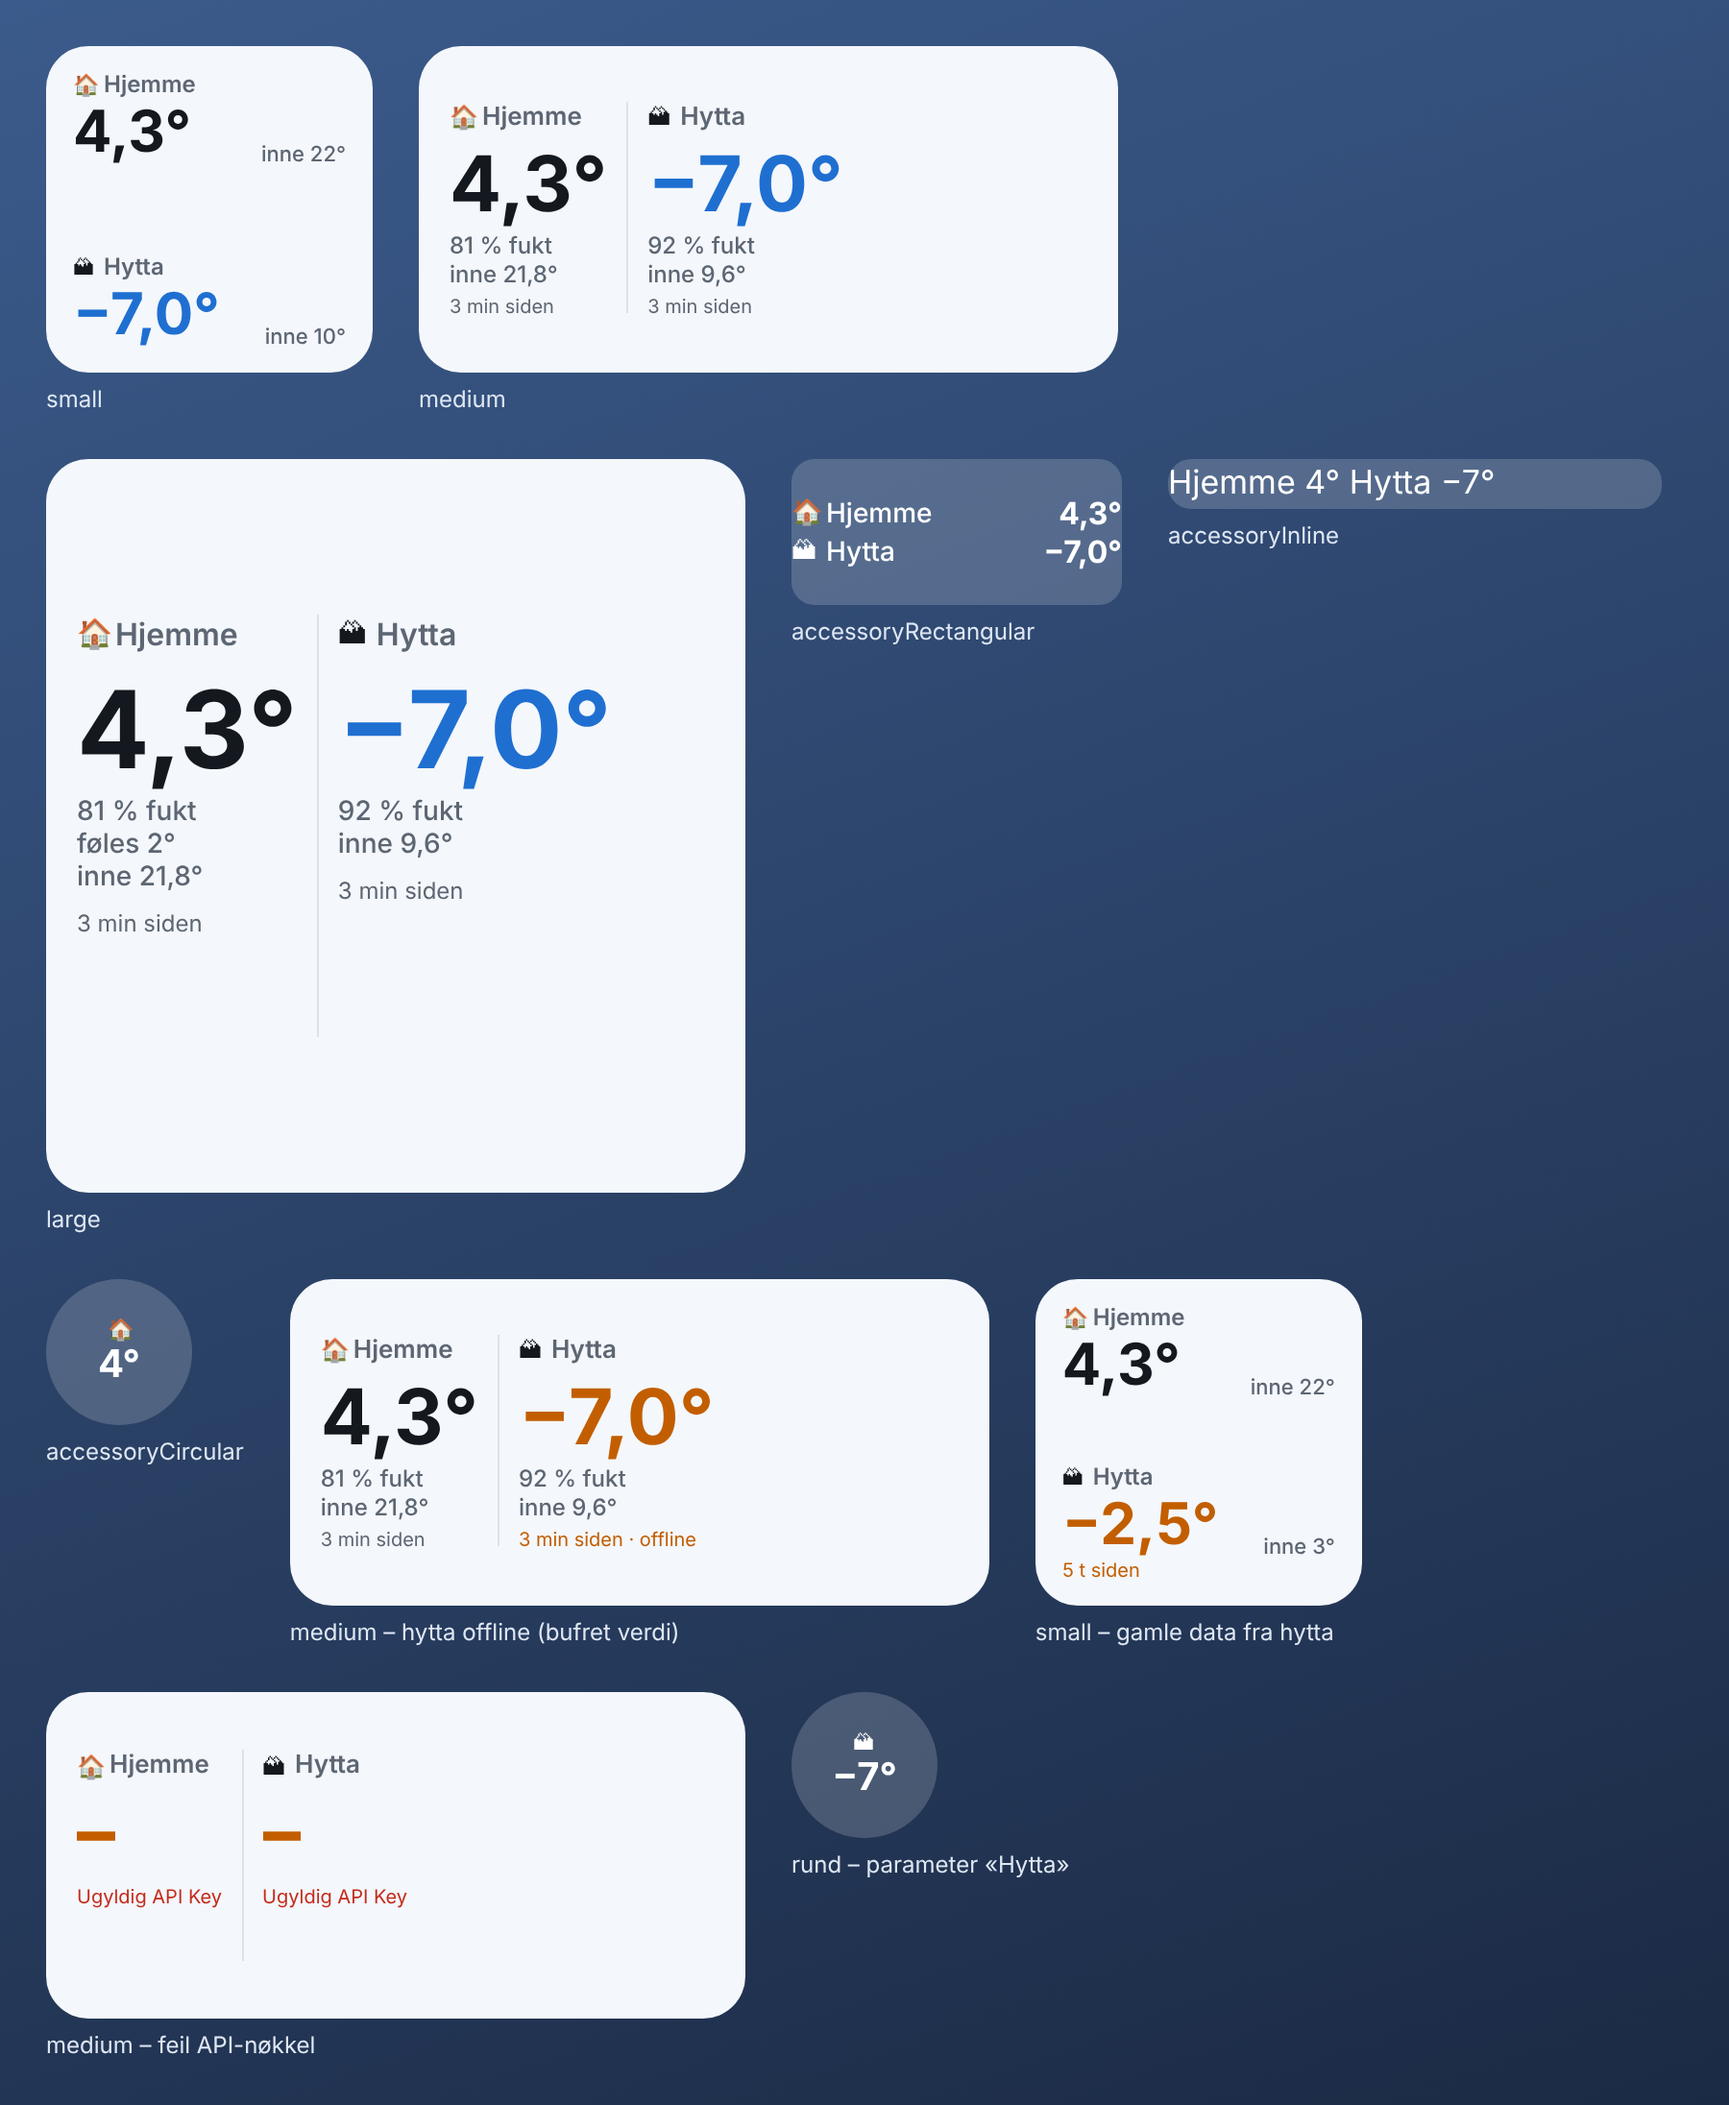
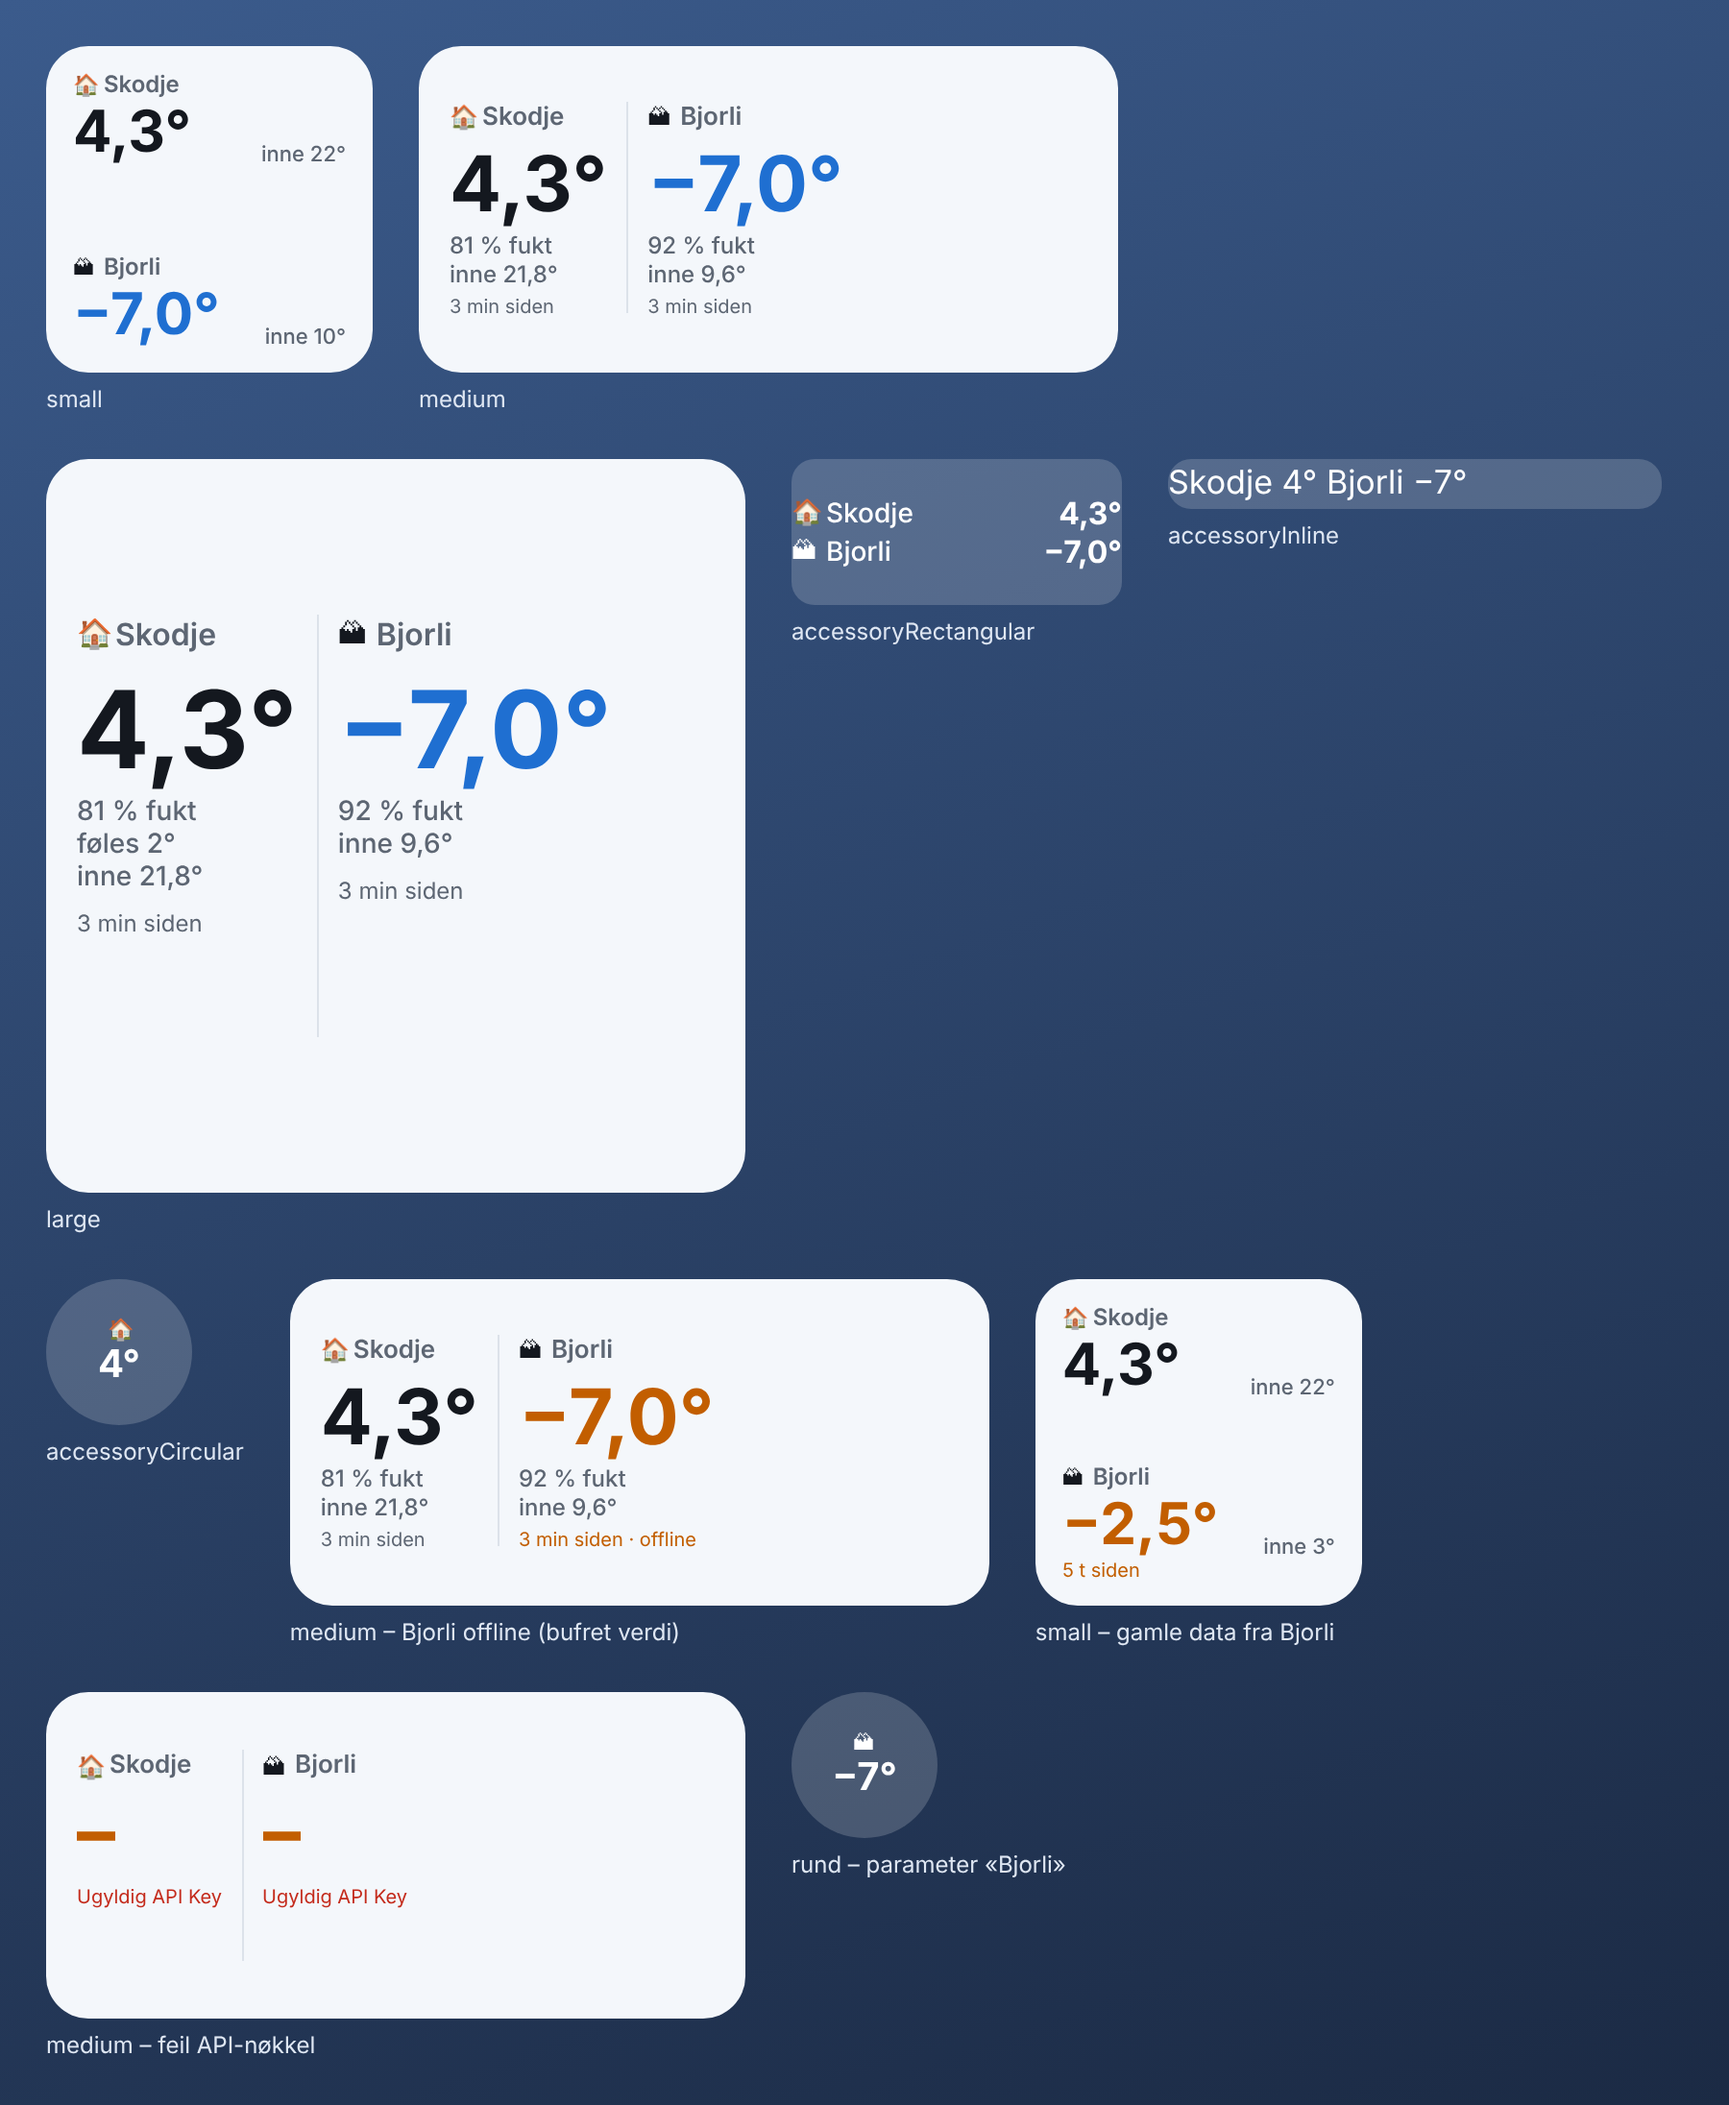
Use Skodje and Bjorli as station names; add installation-day guide
Examples, test data and preview images now use the real station names.
OPPSETT.md is a step-by-step guide for installing on the phone with a Mac
and AirDrop, including a fallback path and troubleshooting.

Claude-Session: https://claude.ai/code/session_016FpchoeUEge6xUMinKoJ1R

diff --git a/OPPSETT.md b/OPPSETT.md
@@ -1,0 +1,121 @@
+# Installasjonsdagen – steg for steg
+
+Det du trenger: **Macen din**, **iPhonen hans**, og de to Ecowitt-nøklene (du har dem fra før).
+Regn med 15–20 minutter inkludert kaffe.
+
+## Før du drar (5 min, hjemme)
+
+1. **Last ned scriptet på Macen.** Åpne
+   `https://github.com/dnusual/Temp-widget` → fila `TempWidget.js` → knappen **Download raw file**
+   (pil ned, øverst til høyre i filvisningen). Bruk grenen `claude/temp-widget-ecowitt-6qhhue`
+   hvis den ikke er slått sammen til `main` ennå.
+2. **Gi fila nytt navn til `Temp.js`** i Finder. Navnet på fila blir navnet på scriptet i
+   Scriptable, og «Temp» er det veiledningen bruker overalt.
+3. **Legg nøklene et sted du kan kopiere fra på hans telefon.** Enkleste er å sende dem som
+   en tekstmelding til ham fra din egen telefon, én nøkkel per melding, så han kan
+   kopiere dem rett fra Meldinger:
+   - Application Key (32 tegn, store bokstaver og tall)
+   - API Key (36 tegn med bindestreker)
+
+   Nøklene gir bare lesetilgang til målingene, så det er greit å sende dem på SMS.
+
+## Hos ham
+
+### 1. Installer Scriptable (2 min)
+
+På hans iPhone: **App Store** → søk **Scriptable** → appen av *Simon B. Støvring* (lilla
+ikon) → **Hent**. Gratis, ingen kjøp i appen.
+
+Åpne Scriptable én gang så den får laget mappa si i iCloud Drive. Du kan lukke den igjen.
+
+### 2. AirDrop scriptet fra Macen (2 min)
+
+1. På iPhonen: sveip ned fra øverst til høyre → hold inne nettverksruta → trykk **AirDrop** →
+   **Alle i 10 minutter**. (Ellers finner ikke Macen din telefonen, siden dere har hver deres
+   Apple-ID.)
+2. På Macen: høyreklikk `Temp.js` → **Del** → **AirDrop** → velg hans iPhone.
+3. På iPhonen dukker det opp et valg om hva fila skal åpnes i. Velg **Scriptable** hvis den
+   står der. Da legger den seg rett inn som scriptet **Temp**, og du kan hoppe til steg 3.
+
+   Hvis Scriptable ikke står i lista: velg **Arkiver i Filer** → **iCloud Drive** →
+   mappa **Scriptable** → **Arkiver**. Åpne Scriptable; scriptet **Temp** ligger nå der.
+
+**Plan B hvis AirDrop er vrangt:** Åpne råfila på GitHub i Safari på *hans* telefon
+(`https://raw.githubusercontent.com/dnusual/Temp-widget/claude/temp-widget-ecowitt-6qhhue/TempWidget.js`),
+hold inne i teksten → **Marker alt** → **Kopier**. I Scriptable: **+** øverst til høyre →
+lim inn → trykk på tittelen øverst → skriv **Temp** → **Ferdig**.
+
+### 3. Kjør scriptet én gang og legg inn nøklene (3 min)
+
+1. I Scriptable: trykk på **Temp**.
+2. Første boks spør om **Application Key** og **API Key**. Gå til Meldinger, hold inne
+   på nøkkelen → **Kopier**, tilbake til Scriptable, lim inn. Gjør det samme for den andre.
+   Trykk **Lagre**.
+3. Scriptet henter stasjonene fra kontoen hans. Du får én boks per stasjon:
+   - **Skodje** → la navnet stå → **Vis**
+   - **Bjorli** → la navnet stå → **Vis**
+4. **«Hvilken er hjemme?»** → trykk **Skodje**. Da får Skodje hus-ikon og Bjorli hytte-ikon.
+5. Du lander i en meny. Trykk **Vis middels widget** for å se at tallene kommer. Står det
+   «Ingen nettforbindelse» eller «Ugyldig API Key», se feilsøking nederst.
+
+### 4. La ham velge utseende (3 min)
+
+I samme meny: **Velg utseende**. Bla gjennom **Lys**, **Stor skrift**, **Farge** og **Tabell**.
+Han får se hvert av dem med ekte tall; trykk **Se liten størrelse** for å sammenligne, og
+**Bruk denne** når han har bestemt seg. (Dette kan endres når som helst senere, uten å
+gjøre noe med widgeten på hjemskjermen.)
+
+Trykk **Ferdig** for å gå ut av menyen.
+
+### 5. Legg widgeten på hjemskjermen (3 min)
+
+1. Gå til hjemskjermen. Hold fingeren på et tomt sted til ikonene begynner å riste.
+2. Trykk **Rediger** øverst til venstre → **Legg til widget** (på eldre iOS: **+** øverst
+   til venstre).
+3. Søk **Scriptable**. Sveip til **middels** størrelse (den brede) → **Legg til widget**.
+   Middels er den som viser mest uten å bli trang; liten går også fint.
+4. Widgeten er tom og står med tekst «Scriptable». Trykk på den mens ikonene fortsatt
+   rister (eller hold inne → **Rediger widget**):
+   - **Script** → velg **Temp**
+   - **When Interacting** → la stå på *Open App* (da kommer den store oversikten når han
+     trykker på widgeten)
+   - **Parameter** → la stå tomt
+5. Trykk utenfor. Etter noen sekunder vises temperaturene. Trykk **Ferdig** øverst til høyre.
+
+Dra den gjerne til første side, øverst, så han slipper å lete.
+
+### 6. Valgfritt: låseskjermen (2 min)
+
+Hold inne på låseskjermen (telefonen låst opp med Face ID, men ikke sveipet opp) →
+**Tilpass** → **Låseskjerm** → trykk på feltet **under klokka** → velg **Scriptable** → den
+brede (rektangulære). Trykk på den → **Script: Temp**. Den viser begge stasjonene, alltid i
+svart/hvitt. **Ferdig** → **Ferdig**.
+
+### 7. Vis ham før du går
+
+- Trykk på widgeten → den store oversikten åpnes.
+- Oransje tall betyr at stasjonen ikke har sendt noe på over 1,5 time (strømbrudd på
+  Bjorli?). Den viser da siste kjente verdi.
+- iOS oppdaterer widgeter sånn cirka hvert kvarter til hver halvtime. Trykker han på den,
+  får han ferske tall med en gang.
+- Vil han bytte utseende: Scriptable → **Temp** → **Velg utseende**.
+
+## Hvis noe ikke virker
+
+| Det du ser | Gjør dette |
+| --- | --- |
+| Macen finner ikke iPhonen i AirDrop | Sjekk at AirDrop på iPhonen står på **Alle i 10 minutter**, og at Wi-Fi og Bluetooth er på begge steder. Ellers: Plan B i steg 2. |
+| Scriptet heter ikke «Temp» | Hold inne scriptet i Scriptable → **Rename**. Widgeten må peke på riktig navn. |
+| «Ugyldig Application Key» / «Ugyldig API Key» | En av nøklene ble limt inn feil (mellomrom, manglende tegn). Scriptable → **Temp** → **Endre Ecowitt-nøkler**. |
+| «Ingen stasjoner funnet» | Nøklene er laget på en annen Ecowitt-konto enn den stasjonene ligger på. Logg inn på ecowitt.net med kontoen fra Ecowitt-appen hans og lag nøklene der. |
+| «Ingen nettforbindelse» | Telefonen hans har ikke nett akkurat nå, eller ecowitt.net er nede. Prøv igjen om litt. |
+| Widgeten viser «Ikke satt opp» | Scriptet er lagt inn, men ikke kjørt i appen. Gjør steg 3. |
+| Widgeten er tom / viser bare «Scriptable» | Widgeten har ikke fått valgt script. Hold inne på widgeten → **Rediger widget** → **Script: Temp**. |
+| Tallene står stille i flere timer | Hold inne widgeten → **Rediger widget** → trykk utenfor igjen; det tvinger en oppdatering. Åpne også Scriptable én gang; iOS prioriterer widgeter fra apper som brukes. |
+
+## Etterpå
+
+Om du senere vil endre noe (farger, hvor lenge data regnes som ferske, et nytt utseende):
+rediger `TempWidget.js`, og AirDrop fila på nytt som `Temp.js`. Når iPhonen spør, velg
+**Erstatt**. Nøkler, stasjoner og valgt utseende ligger i nøkkelringen på telefonen og
+overlever oppdateringer av scriptet.

diff --git a/README.md b/README.md
@@ -44,6 +44,8 @@ slutter den å virke etter 7 dager og må installeres på nytt.
 
 ## Oppsett (ca. 10 minutter)
 
+> Kortversjon for selve installasjonsdagen, med Mac og AirDrop: [OPPSETT.md](OPPSETT.md).
+
 ### 1. Hent nøkler fra ecowitt.net
 
 Ecowitt-appen lagrer målingene på ecowitt.net. Widgeten henter dem derfra med to nøkler.
@@ -77,9 +79,9 @@ Velg én av måtene:
 Trykk på **Temp** i Scriptable. Den spør om:
 
 1. **Application Key** og **API Key** fra steg 1 → lim inn → *Lagre*.
-2. **Hver stasjon** den finner på kontoen → gi den et kort navn (f.eks. **Hjemme** og
-   **Hytta**) og trykk *Vis*.
-3. **Hvilken som er hjemme.** Den står først med hus-ikon, hytta får hytte-ikon.
+2. **Hver stasjon** den finner på kontoen (**Skodje** og **Bjorli**) → behold navnet eller
+   skriv et kortere, og trykk *Vis*.
+3. **Hvilken som er hjemme** → velg **Skodje**. Den står først med hus-ikon, Bjorli får hytte-ikon.
 
 Deretter får du en meny der du kan se hvordan widgeten blir i ulike størrelser.
 Nøklene lagres i iPhonens nøkkelring, ikke i selve scriptet.
@@ -104,11 +106,11 @@ Velg *Temp* som script på samme måte som over.
 
 Skriv i feltet **Parameter** når du redigerer widgeten:
 
-- `Hytta` → viser bare den stasjonen. Fint for den runde låseskjerm-widgeten, eller for å
+- `Bjorli` → viser bare den stasjonen. Fint for den runde låseskjerm-widgeten, eller for å
   ha to små widgeter ved siden av hverandre.
 - `farge` (eller `lys`, `stor skrift`, `tabell`) → bruker det utseendet på akkurat denne
   widgeten, uansett hva som er valgt i menyen.
-- `Hytta, farge` → begge deler.
+- `Bjorli, farge` → begge deler.
 
 ---
 
@@ -119,7 +121,7 @@ Skriv i feltet **Parameter** når du redigerer widgeten:
 | «Ikke satt opp» | Scriptet er ikke kjørt i appen ennå. Gjør steg 4. |
 | «Ugyldig Application Key» / «Ugyldig API Key» | Nøkkelen er feil eller slettet. Åpne Temp i Scriptable → *Endre Ecowitt-nøkler*. |
 | «Ukjent stasjon (MAC/IMEI)» | Stasjonen er fjernet eller byttet. Åpne Temp → *Velg / gi navn til stasjoner*. |
-| Oransje tekst «x t siden» | Stasjonen har ikke sendt data på en stund (strøm eller nett nede på hytta?). |
+| Oransje tekst «x t siden» | Stasjonen har ikke sendt data på en stund (strøm eller nett nede på Bjorli?). |
 | «· offline» | Ecowitt svarte ikke nå; viser siste kjente verdi. |
 | Oppdaterer sjelden | iOS bestemmer hvor ofte widgeter oppdateres, typisk hvert 15.–30. minutt. Trykk på widgeten for ferske tall. |
 
